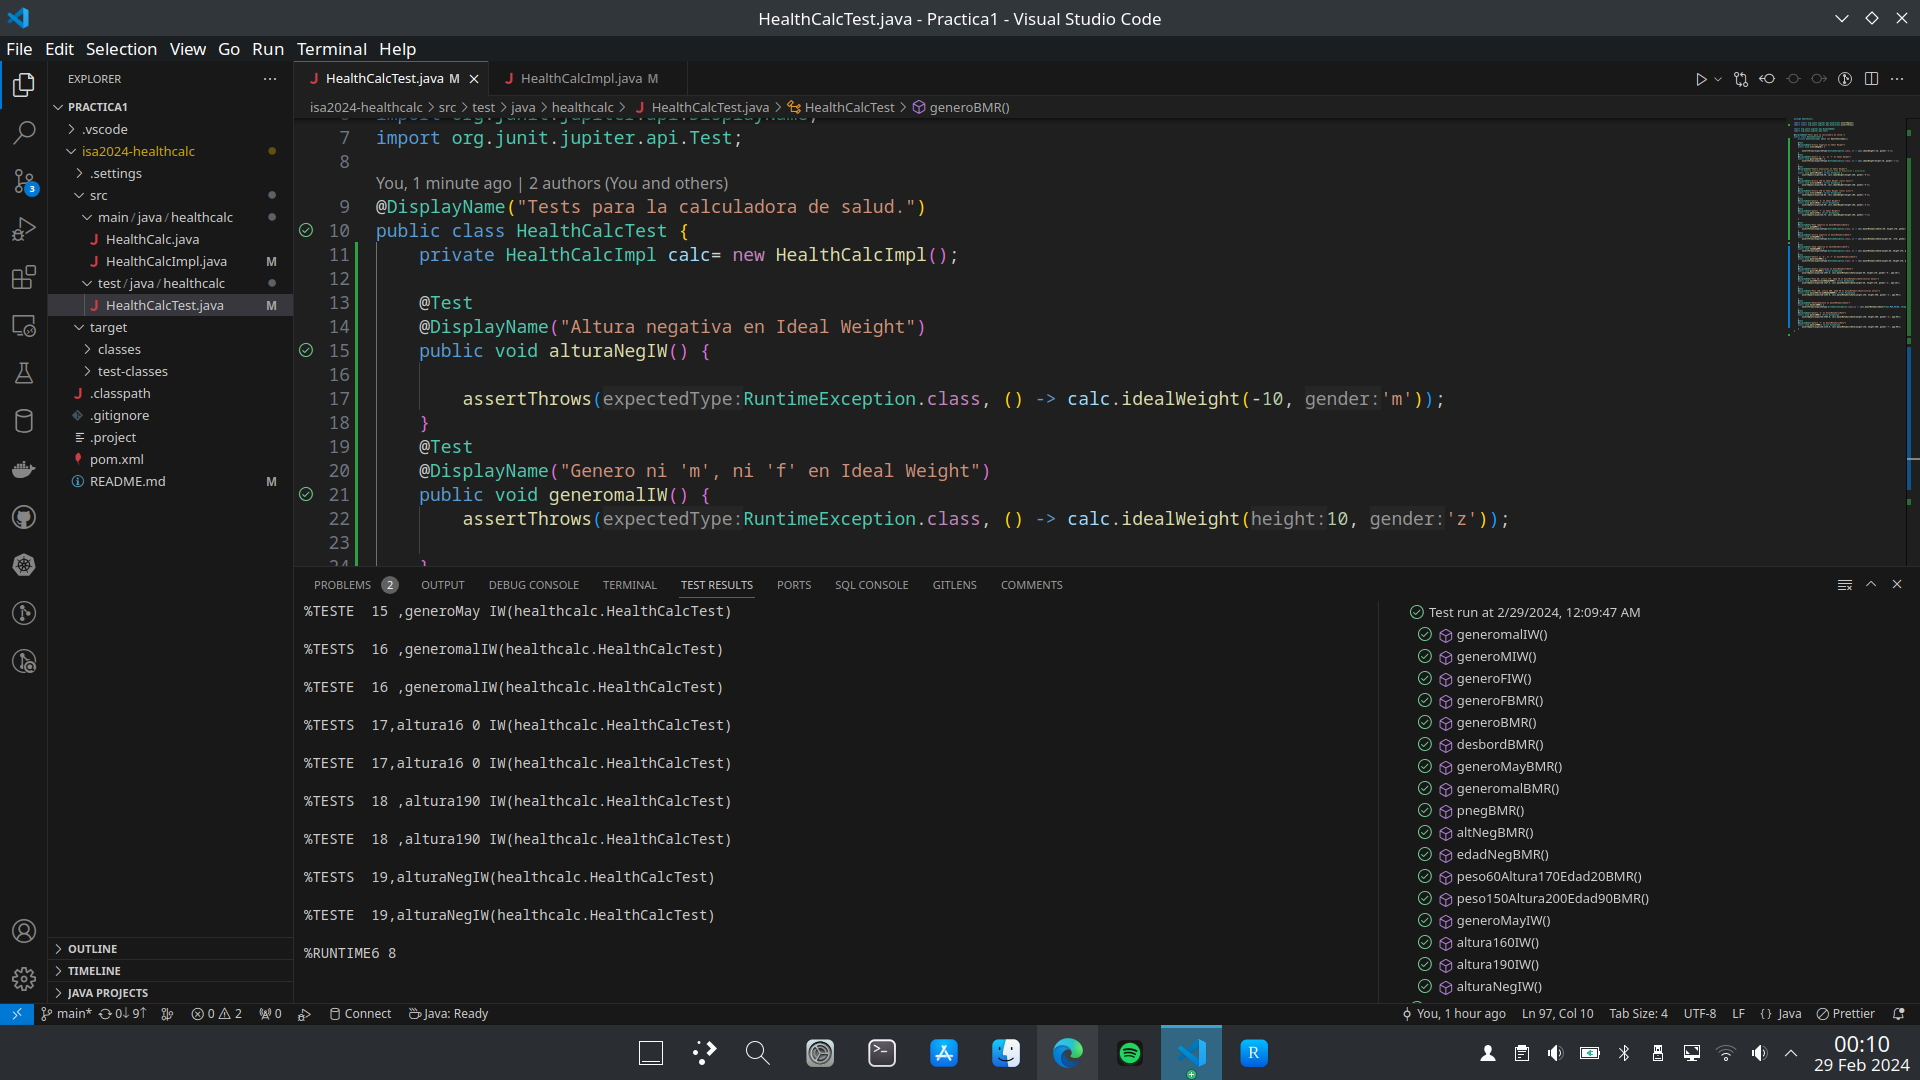
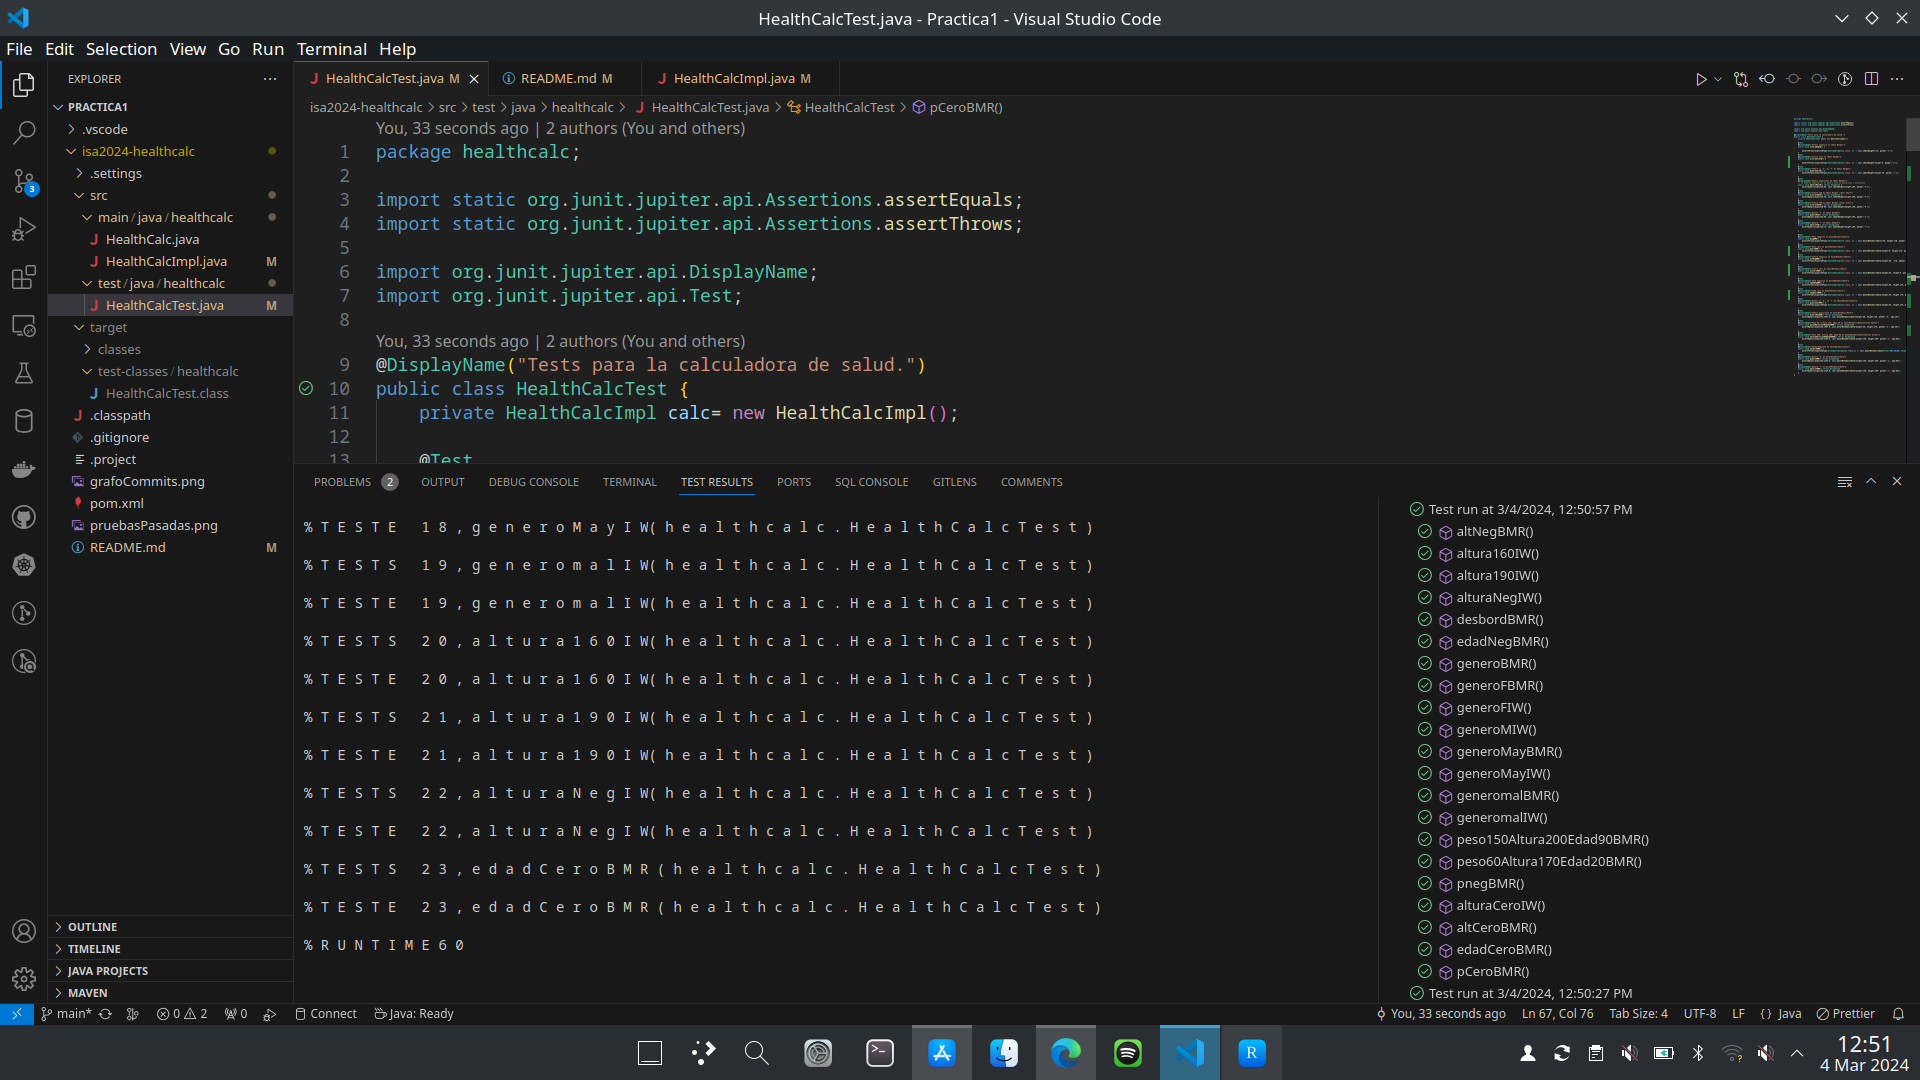
pruebas en cero añadidas y pasadas

diff --git a/src/test/java/healthcalc/HealthCalcTest.java b/src/test/java/healthcalc/HealthCalcTest.java
@@ -17,6 +17,12 @@ public class HealthCalcTest {
 		assertThrows(RuntimeException.class, () -> calc.idealWeight(-10, 'm'));
 	}
 	@Test
+	@DisplayName("Altura cero en Ideal Weight")
+	public void alturaCeroIW() {
+		
+		assertThrows(RuntimeException.class, () -> calc.idealWeight(0, 'm'));
+	}
+	@Test
 	@DisplayName("Genero ni 'm', ni 'f' en Ideal Weight")
 	public void generomalIW() {
 		assertThrows(RuntimeException.class, () -> calc.idealWeight(10, 'z'));
@@ -56,15 +62,31 @@ public class HealthCalcTest {
 		assertThrows(RuntimeException.class, () -> calc.basalMetabolicRate(-60, 170, 'm', 20));
 	}
 	@Test
+	@DisplayName("Peso cero en basalMetabolicRate")
+	public void pCeroBMR() {
+		assertThrows(RuntimeException.class, () -> calc.basalMetabolicRate(0, 170, 'm', 20));
+	}
+	@Test
 	@DisplayName("altura negativa en basalMetabolicRate")
 	public void altNegBMR() {
 		assertThrows(RuntimeException.class, () -> calc.basalMetabolicRate(60, -170, 'm', 20));
 
 	}
 	@Test
+	@DisplayName("altura cero en basalMetabolicRate")
+	public void altCeroBMR() {
+		assertThrows(RuntimeException.class, () -> calc.basalMetabolicRate(60, 0, 'm', 20));
+
+	}
+	@Test
 	@DisplayName("edad negativa en basalMetabolicRate")
 	public void edadNegBMR() {
 		assertThrows(RuntimeException.class, () -> calc.basalMetabolicRate(60, 170, 'm', -20));
+	}
+	@Test
+	@DisplayName("edad cero en basalMetabolicRate")
+	public void edadCeroBMR() {
+		assertThrows(RuntimeException.class, () -> calc.basalMetabolicRate(60, 170, 'm', 0));
 	}
 	@Test
 	@DisplayName("Genero ni 'm', ni 'f' en basalMetabolicRate")

diff --git a/src/main/java/healthcalc/HealthCalcImpl.java b/src/main/java/healthcalc/HealthCalcImpl.java
@@ -4,8 +4,8 @@ public class HealthCalcImpl implements HealthCalc {
 
     public float idealWeight(int height, char gender) throws Exception{
     //  * Calculate the ideal weight (IW) of a person following the Lorentz formula:
-        if(height<0){
-            throw new RuntimeException("altura negativa");
+        if(height<=0){
+            throw new RuntimeException("altura menor o igual que cero");
         }
         gender=Character.toUpperCase(gender);
         double IW;
@@ -25,14 +25,14 @@ public class HealthCalcImpl implements HealthCalc {
         // Calculate the Basal Metabolic Rate (BMR) of a person with the following formula:
         gender=Character.toUpperCase(gender);
 
-        if(weight < 0){
-            throw new RuntimeException("peso negativo");
+        if(weight <= 0){
+            throw new RuntimeException("peso menor o igual que cero");
         }
-        if(height < 0){
-            throw new RuntimeException("altura negativa");
+        if(height <=0){
+            throw new RuntimeException("altura menor o igual que cero");
         }
-        if(age < 0){
-            throw new RuntimeException("edad negativa");
+        if(age <= 0){
+            throw new RuntimeException("edad menor o igual que cero");
         }
         if(!(gender=='M' || gender=='F')){
             throw new RuntimeException("Genero incorrecto");

diff --git a/README.md b/README.md
@@ -7,7 +7,9 @@ Health calculator
 ### Metodo idealWeight
 
 #### Pruebas de particion (se compureba todos los tipos de entrada y salida posibles)
-- Altura negativa
+- Altura menor
+- Altura cero
+- Podriamos comprobar una altura minima pero no esta implementado
 - Genero ni 'm' ni 'f'
 - Genero en mayusculas
 - Altura 160 (valor bajo)
@@ -25,8 +27,12 @@ Tenemos dos caminos, hombre y mujer.
 
 #### Pruebas de particion (se compureba todos los tipos de entrada y salida posibles)
 - Peso negativo
+- Peso cero
 - Altura negativa
+- Altura cero
 - Edad negativa
+- Edad cero
+- Se podrian comprobar peso altura minimas
 - Genero ni 'm' ni 'f'
 - Genero en mayusculas
 - Peso 60, altura 170, edad 20 en basalMetabolicRate(valores bajos)
